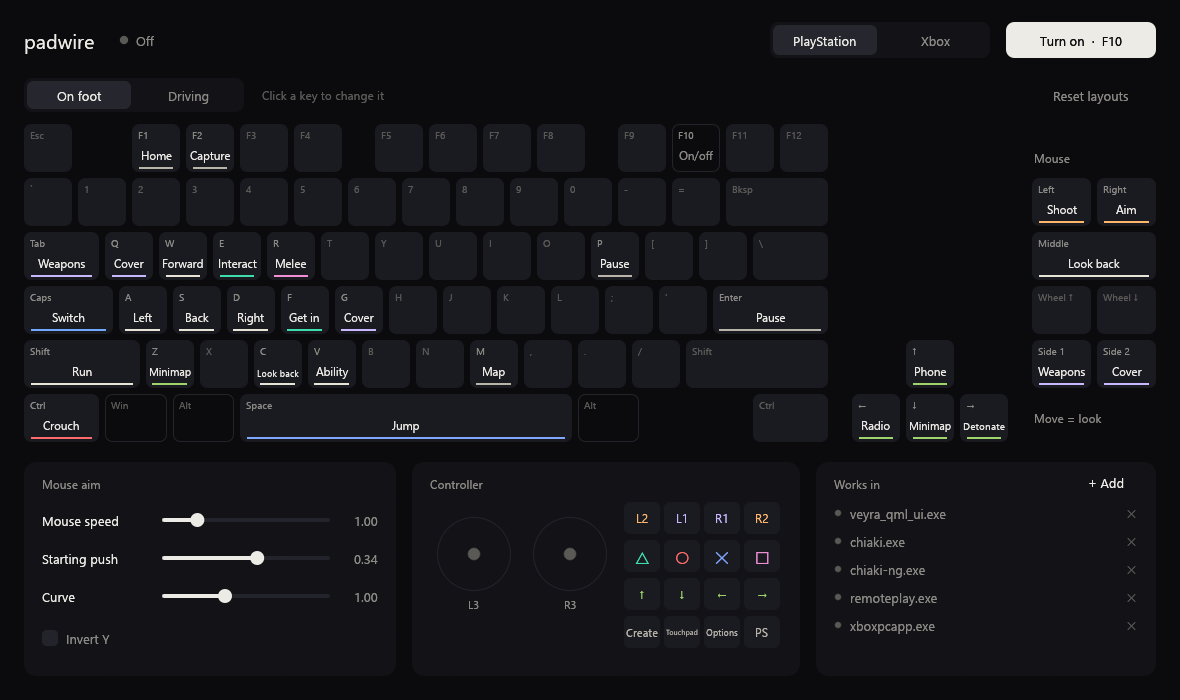
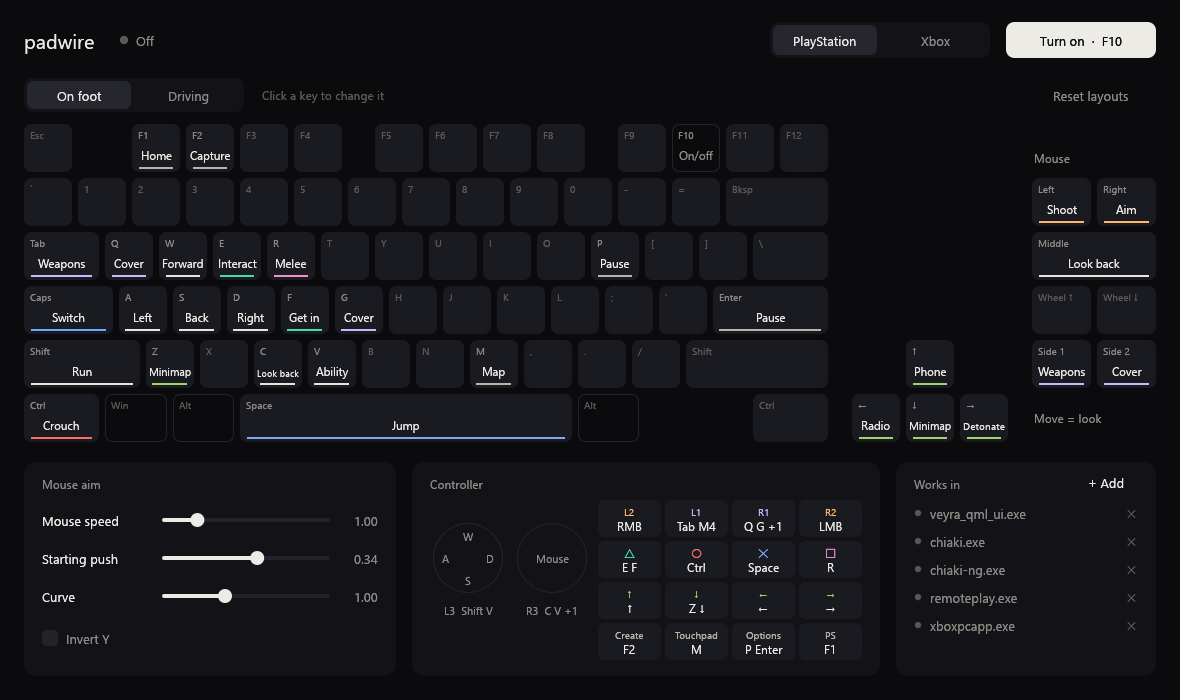
Controller card shows the key bound to each button
Each button and stick direction is labelled with its keys for the current layout. 0.1.1.

diff --git a/src/ui.rs b/src/ui.rs
@@ -24,6 +24,26 @@ const GREEN: Color32 = rgb(0x3ddc84);
 const AMBER: Color32 = rgb(0xffb454);
 const RED: Color32 = rgb(0xff6b6b);
 
+/// The keys bound to a controller button, as short labels: "Q G +1".
+fn keys_on(layout: &model::Layout, t: Target) -> String {
+    let mut caps = model::KEYS.iter().filter(|k| layout.get(k.1).is_some_and(|b| b.to.contains(&t))).map(|k| match k.0 {
+        0x01 => "LMB",
+        0x02 => "RMB",
+        0x04 => "MMB",
+        0x05 => "M4",
+        0x06 => "M5",
+        WHEEL_UP => "Whl\u{2191}",
+        WHEEL_DOWN => "Whl\u{2193}",
+        _ => k.2,
+    });
+    let mut out: Vec<String> = caps.by_ref().take(2).map(str::to_string).collect();
+    let more = caps.count();
+    if more > 0 {
+        out.push(format!("+{more}"));
+    }
+    out.join(" ")
+}
+
 fn color(t: Target, c: Console) -> Color32 {
     use Target::*;
     let ps = c == Console::Ps;
@@ -272,15 +292,30 @@ impl App {
         }
     }
 
-    fn pad_card(&self, cv: &Cv, x: f32, y: f32, st: &Status) {
+    fn pad_card(&self, cv: &Cv, x: f32, y: f32, st: &Status, mode: Mode) {
         use Target::*;
         let (s, p, con) = (cv.s, st.pad, self.cfg.console);
+        let keys = |t: Target| keys_on(self.cfg.layout(mode), t);
         cv.text(cv.r(x + 18.0, y + 14.0, 0.0, 0.0).min, Align2::LEFT_TOP, "Controller", 12.0, DIM);
-        for (i, (sx, sy, click)) in [(p.lx, p.ly, L3), (p.rx, p.ry, R3)].into_iter().enumerate() {
-            let c = cv.r(x + 62.0 + i as f32 * 96.0, y + 92.0, 0.0, 0.0).min;
-            cv.ui.painter().circle_stroke(c, 36.0 * s, Stroke::new(1.0, if p.has(click) { TEXT } else { EDGE }));
-            cv.ui.painter().circle_filled(c + Vec2::new(sx, -sy) * 30.0 * s, 6.0 * s, if sx != 0.0 || sy != 0.0 { TEXT } else { MUTE });
-            cv.text(c + Vec2::new(0.0, 50.0 * s), Align2::CENTER_CENTER, model::button_name(click, con), 11.0, if p.has(click) { TEXT } else { DIM });
+        let sticks = [(p.lx, p.ly, L3, Some([LsUp, LsDown, LsLeft, LsRight])), (p.rx, p.ry, R3, None)];
+        for (i, (sx, sy, click, dirs)) in sticks.into_iter().enumerate() {
+            let c = cv.r(x + 56.0 + i as f32 * 84.0, y + 96.0, 0.0, 0.0).min;
+            cv.ui.painter().circle_stroke(c, 34.0 * s, Stroke::new(1.0, if p.has(click) { TEXT } else { EDGE }));
+            match dirs {
+                Some(dirs) => {
+                    for (t, d) in dirs.into_iter().zip([Vec2::new(0.0, -1.0), Vec2::new(0.0, 1.0), Vec2::new(-1.0, 0.0), Vec2::new(1.0, 0.0)]) {
+                        cv.fit(c + d * 22.0 * s, Align2::CENTER_CENTER, &keys(t), 11.0, 24.0, if p.has(t) { TEXT } else { DIM });
+                    }
+                }
+                None => {
+                    cv.text(c, Align2::CENTER_CENTER, "Mouse", 11.0, DIM);
+                }
+            }
+            if sx != 0.0 || sy != 0.0 {
+                cv.ui.painter().circle_filled(c + Vec2::new(sx, -sy) * 28.0 * s, 5.0 * s, TEXT);
+            }
+            let label = format!("{}  {}", model::button_name(click, con), keys(click));
+            cv.fit(c + Vec2::new(0.0, 52.0 * s), Align2::CENTER_CENTER, label.trim_end(), 11.0, 78.0, if p.has(click) { TEXT } else { DIM });
         }
         let chips: [&[Target]; 4] = [&[L2, L1, R1, R2], &[Triangle, Circle, Cross, Square], &[DUp, DDown, DLeft, DRight], &[Share, Touchpad, Options, Ps]];
         for (ri, row) in chips.iter().enumerate() {
@@ -288,13 +323,14 @@ impl App {
                 if con == Console::Xbox && t == Touchpad {
                     continue;
                 }
-                let r = cv.r(x + 212.0 + ci as f32 * 40.0, y + 40.0 + ri as f32 * 38.0, 36.0, 32.0);
+                let r = cv.r(x + 186.0 + ci as f32 * 67.0, y + 38.0 + ri as f32 * 41.0, 63.0, 37.0);
                 let on = p.has(t) || (t == L2 && p.lt > 0.0) || (t == R2 && p.rt > 0.0);
                 let c = color(t, con);
                 cv.fill(r, 6.0, if on { c } else { KEY });
                 let name = model::button_name(t, con).trim_start_matches("D-pad ");
-                let size = if matches!(t, Cross | Circle | Square | Triangle) && con == Console::Ps { 17.0 } else { 12.0 };
-                cv.fit(r.center(), Align2::CENTER_CENTER, name, size, 32.0, if on { BG } else { c });
+                let size = if matches!(t, Cross | Circle | Square | Triangle) && con == Console::Ps { 13.0 } else { 10.0 };
+                cv.fit(Pos2::new(r.center().x, r.top() + 11.0 * s), Align2::CENTER_CENTER, name, size, 57.0, if on { BG } else { c });
+                cv.fit(Pos2::new(r.center().x, r.bottom() - 11.0 * s), Align2::CENTER_CENTER, &keys(t), 12.0, 57.0, if on { BG } else { TEXT });
             }
         }
     }
@@ -467,13 +503,13 @@ impl App {
         self.keyboard(&cv, mode);
 
         let (cy, ch) = (462.0, 214.0);
-        let cards = [(24.0, 372.0), (412.0, 388.0), (816.0, 340.0)];
+        let cards = [(24.0, 372.0), (412.0, 468.0), (896.0, 260.0)];
         for (x, w) in cards {
             cv.fill(cv.r(x, cy, w, ch), 12.0, PANEL);
         }
         self.aim_card(&cv, cards[0].0, cy, cards[0].1);
         self.apps_card(&cv, cards[2].0, cy, cards[2].1, &st, live);
-        self.pad_card(&cv, cards[1].0, cy, &st);
+        self.pad_card(&cv, cards[1].0, cy, &st, mode);
 
         if let Some(code) = self.pick {
             self.picker(&Cv { ui, o, s, active: true }, code, mode, full);
@@ -660,7 +696,7 @@ mod tests {
         assert!(r.app.adding.is_some(), "+ Add lists the open apps");
         r.app.adding = Some(vec!["chiaki.exe".into(), "obs64.exe".into()]);
         r.frame(vec![]);
-        r.click(900.0, 513.0);
+        r.click(1000.0, 513.0);
         assert_eq!(r.app.cfg.apps.last().unwrap(), "obs64.exe", "apps already listed are not offered again");
         assert_eq!(r.app.sh.want.lock().unwrap().0, r.app.cfg.apps);
         assert_eq!(r.saved().apps, r.app.cfg.apps);
